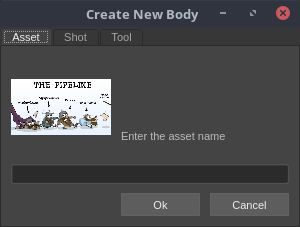
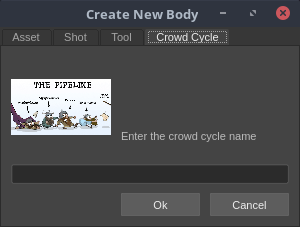
added instructions for crowds

Changed region(s): [[0.51, 0.1233, 0.75, 0.2159], [0.0, 0.1233, 0.18, 0.185], [0.57, 0.5859, 0.87, 0.6167]]

diff --git a/crowds.html b/crowds.html
@@ -32,7 +32,79 @@
 	–––––––––––––––––––––––––––––––––––––––––––––––––– -->
 	<div class="container" id="main-wrapper">
 		<div class="row">
-			<p>How to make a crowd cycle</p>
+			<div class="twelve columns">
+				<h1>How to Make a Crowd</h1>
+			</div>
+		</div>
+		<div class="row">
+			<div class="twelve columns">
+				<h2>How to Setup Crowds Cycle Assets in Maya</h2>
+
+				<p>Making a crowd cycle asset is pretty much the same as making a model, rig, or animation. There are a couple of important differences for crowds so please take a look all the way through it please.</p>
+
+				<h3><img class="icon" src="images/icons/new-body.svg"> Create Body</h3>
+				<img src="images/screenshots/maya-body-creation.png">
+				<p>First you need to create the crowd cycle asset in the pipeline.
+					<ol>
+						<li>Click the plus sign to bring up the asset create window.</li>
+						<li><b>Make sure you click on the "Crowd Cycle" tab.</b></li>
+						<li>Name your cycle. Keep in mind that your cycle may be used in more than one shot, so you may want to avoid using the shot name as a prefix unless that cycle is only ever going to be in that shot. Be descriptive but concise.</li>
+					</ol>
+				</p>
+
+				<h3><img class="icon" src="images/icons/checkout.svg"> Checkout</h3>
+				<p>Click the checkout button and then in the checkout window select your newly created cycle. Click checkout.</p>
+
+				<h3><img class="icon" src="images/icons/reference.svg"> Reference a Model or Rig</h3>
+				<p>Bring in assets like the viking facial rig, helmet, sword, etc. just like you would do for any scene.</p>
+				<p>
+					For the crowds we need to be able to easily switch out weaons, helmets, sheilds, etc. so that we can add varition. This will be done automatically in Houdini.
+
+					<br>
+					There are certain accessories that will help with the randomization:
+					<ul>
+						<li>Helmet: use whatever helmet you want.</li>
+						<li>Weapon:
+							<ul>
+								<li>For one handed weapons you should be able to use whatever you want as well. However, it might be easier to use the viking_weapon_sword01 because it doesn't have several versions inside of it like the viking_misc_swords.</li>
+								<li>For two handed weapons you should problaby use the viking_misc_spears because I think its the only two handed weapon we have.</li>
+							</ul>
+						</li>
+						<li>Shield: use viking_misc_shields <b>please please please</b> it has to be that one.</li>
+						<li>Beard: Don't add a beard; we'll take care of that in Houdini. Also keep in mind that for animation the beard will only follow the mouth movement. There will not be any additional animation for it.</li>
+					</ul>
+					If your cycle doesn't use a certain accessory (eg a viking using both hands on a spear wouldn't have a shield) just don't add that accessory.
+				</p>
+
+				<h3><img class="icon" src="images/icons/tag.svg"> Tag Selected Objects for Export</h3>
+				<p>Please make sure that all of the geo that you want to be exported is tagged. To see if it is tagged select the group/geo in the outliner and look in the channels for the selected item. It should have a channel called "BYU Alembic Export Flag." It it doesn't have the tag go ahead and added. </p>
+				<p><b>Note:</b> The tag is based on if the channel is there or not and not if the tag is set to on or off.</p>
+				<p><b>Note:</b> Please don't tag rigs or controls it should just be the geometry.</p>
+				<p><b>Note:</b> If a group is tagged then everything in the group will be exported.</p>
+
+				<h3>Animation</h3>
+				<p>The animation should be able to be played in a loop, but remember that you need to make sure that the last frame isn't the same as the first frame or else that pose will get two frames worth of time. The last frame needs to lead into the first frame.</p>
+
+				<h3><img class="icon" src="images/icons/publish.svg"> Publish</h3>
+				<p>After you have everything in place you are ready to publish. Publishing will also take care of exporting the cycle to an alembic which you will reference into you scene during the next phase.</p>
+			</div>
+		</div>
+
+		<div class="row">
+			<div class="twelve columns">
+				<a id="newstuff-anchor"></a>
+				<h2>The New Stuff</h2>
+				<p>Now that your cycle is created you can bring it into your shot. You will open your shot reference in how ever many copies of your cycle you need, draw out the same number of paths, make the vikings follow that path, and publish your shot.</p>
+				<h3><img class="icon" src="images/icons/reference.svg"> Reference the Cycle</h3>
+				<p>You can find your cycle by selecting the cycle option from the menu in the reference window.</p>
+				<img src="images/screenshots/maya-crowd-cycle-reference.png">
+				<h2>Animating with the Cycle</h2>
+				<p>Now that the reference is in you can start animating with it. When it references in the cycle alembic it will parent it to the controls that are highlighted in the image bellow.</p>
+				<img src="images/screenshots/cycle-controls.png">
+				<p>For the animation you will make a path and then just have the viking follow that path. Thats it! They need to be moving a long a path inorder for it to go into our crowd tool in Houdini.</p>
+				<h2>Publishing</h2>
+				<p>When you publish your shot you will be prompted to export the crowd animation. Every time that you make changes to how the crowd cycle references are animated you will need to export the crowd animation. Otherwise you can dismiss that window.</p>
+			</div>
 		</div>
 	</div>
 </body>
